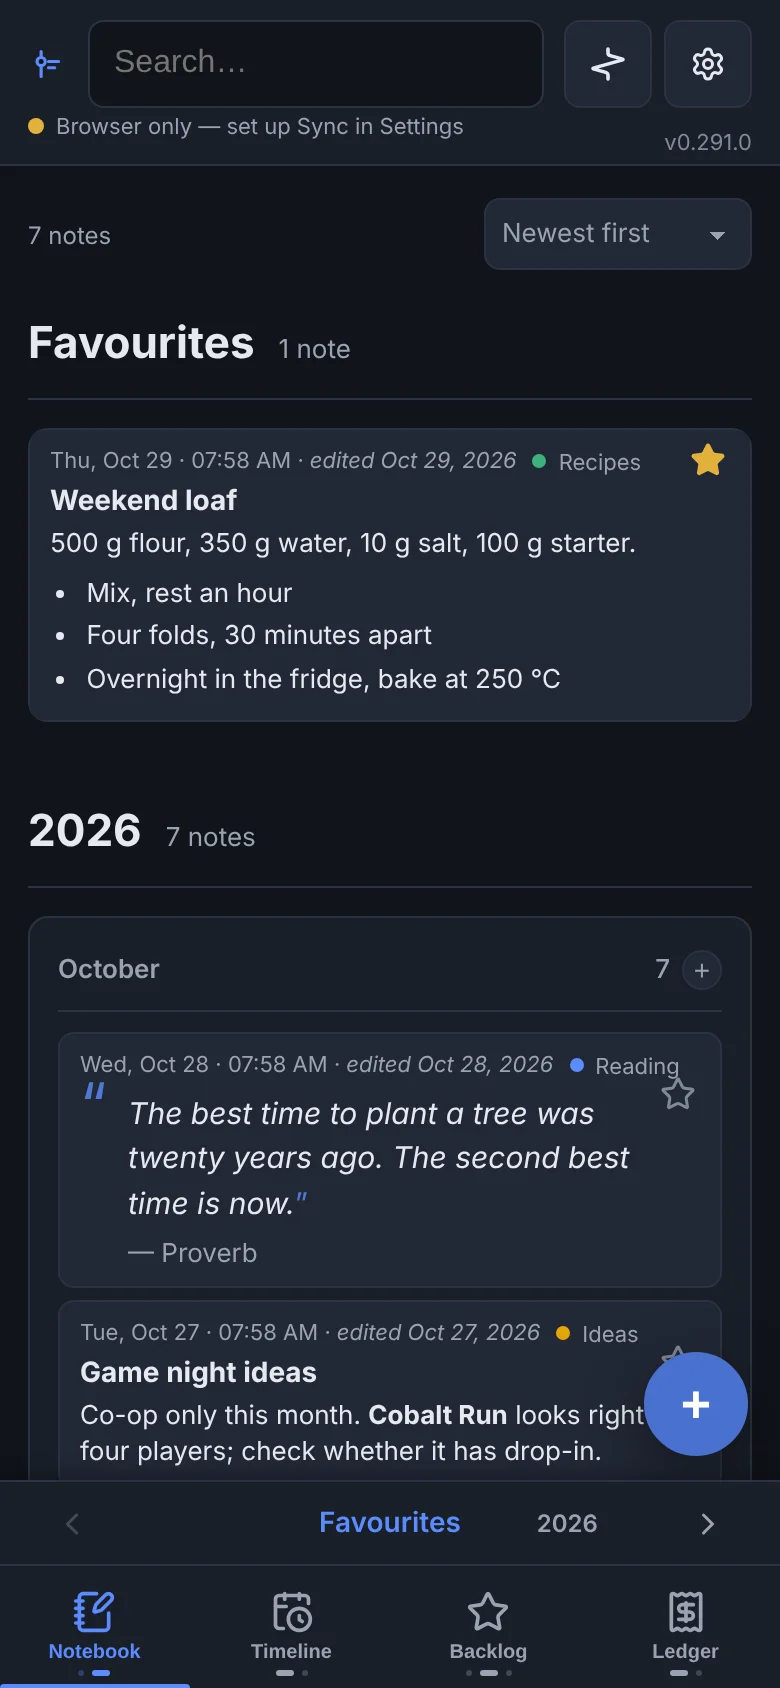
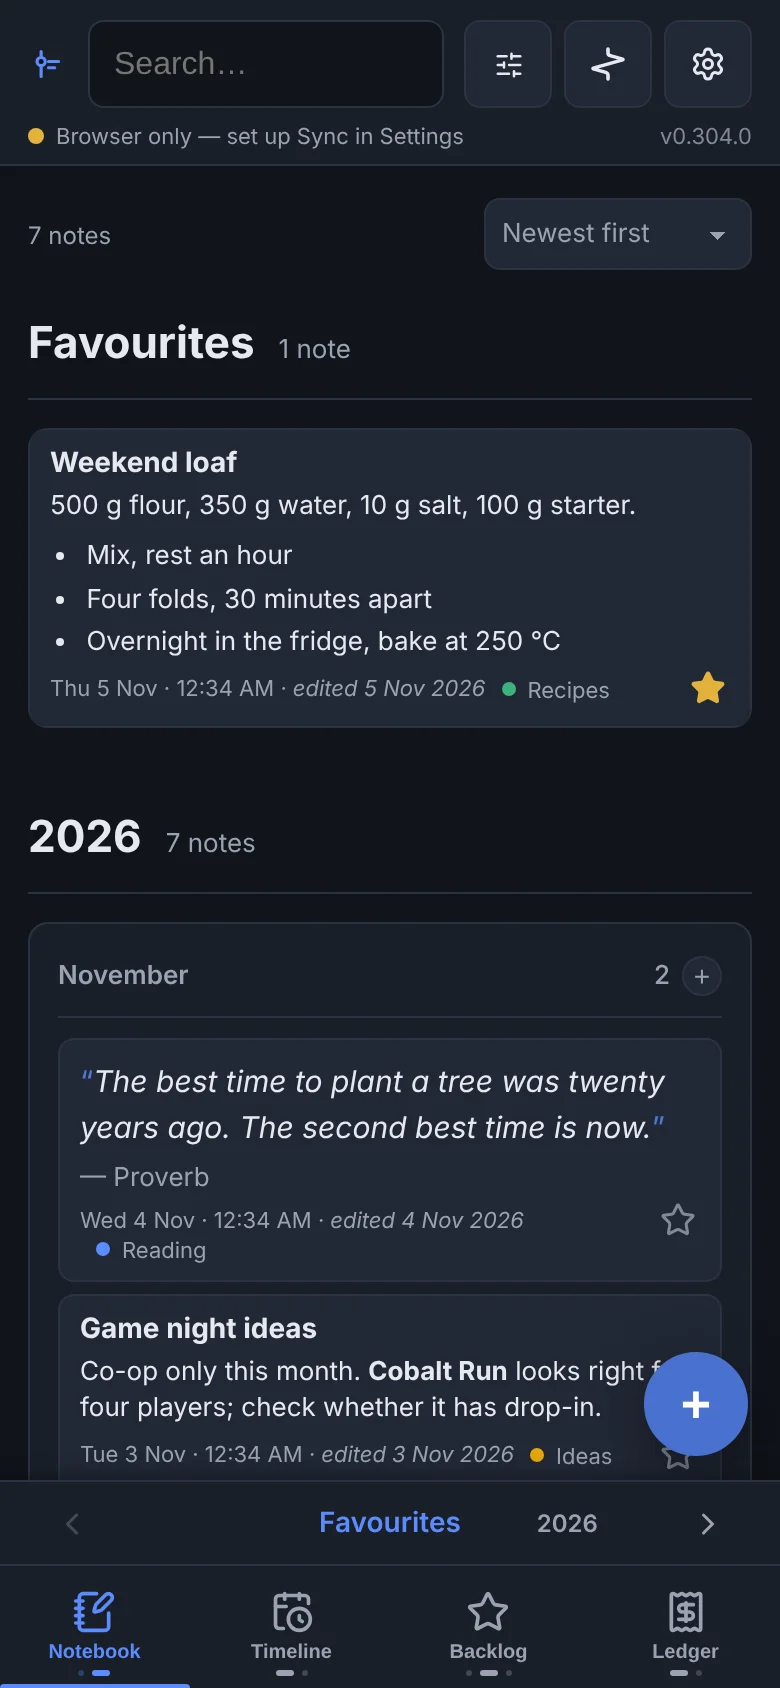
Notes on phones: full screen, category picker, Back closes, no keyboard on Edit, stamps at the foot (#44)
* Notes on phones: full screen in the app, category picker, Back closes, no keyboard on Edit, card stamps at the foot

- The native overlay's padding outranked .nv-overlay's padding: 0, so the
  full-screen note floated with the page above and below it and counted the
  safe areas twice.
- .nv-cat::after (the 44px reach) lay over the select and took the tap; a
  label tap only focuses a select. The reach is now the select's own padding.
- Escape, and so Android Back, closed neither the editor nor the reader.
- openNoteModal focused the text for existing notes, popping the keyboard on
  Edit; only a new note starts typing now.
- Cards: stamp row at the foot (flex, star at its end), quote marks inline,
  no presentation icon on board cards. View buttons left the note.

Claude-Session: https://claude.ai/code/session_01CFeKrkW8Tx3Gf3wdtTxLtT

* Notes: Add image in the ⋯ menu, checklist cards match the others, list headers don't stick

- Add image is the ⋯ menu's first item; a new note's ⋯ holds only that, and
  the foot shows only for a saved note's dates.
- .note-card.is-list had its own surface; it takes the card's now.
- The phone's sticky '.month-card h3' rule caught a checklist's header
  (an h3) and stuck it over the month name; excluded.
- The card stamp is flow-root with the star floated first, so a wrapped
  stamp keeps the star on its first line inside the card.

Claude-Session: https://claude.ai/code/session_01CFeKrkW8Tx3Gf3wdtTxLtT
[…]

diff --git a/src/styles.css b/src/styles.css
@@ -1241,7 +1241,8 @@ select:focus { outline: none; border-color: var(--accent); }
 .note-card:focus-visible { outline: 2px solid var(--accent); outline-offset: 2px; }
 /* After :hover, so a selected card stays marked while the pointer is over it. */
 .note-card.is-selected { border-color: var(--accent); background: var(--accent-soft); }
-.note-stamp { font-size: var(--fs-2xs); color: var(--text-dim); margin-bottom: 4px; }
+/* flow-root holds the floated star inside the card now the stamp is last. */
+.note-stamp { display: flow-root; font-size: var(--fs-2xs); color: var(--text-dim); margin-top: var(--space-6); }
 .note-edited { font-style: italic; }
 .note-text {
   margin: 0; font-size: var(--fs-sm); color: var(--text); line-height: 1.45;
@@ -3369,7 +3370,8 @@ html.native, html.native body { overscroll-behavior-y: none; }
   /* Timeline is a single column at this width, so the year/month you're
      scrolled into can stick under the topbar like a sticky list header. */
   html:not(.force-pc) .year-head { position: sticky; top: var(--sticky-top); z-index: 6; background: var(--bg); }
-  html:not(.force-pc) .month-card h3 {
+  /* A checklist card's own header is an h3 too; it isn't the month's. */
+  html:not(.force-pc) .month-card h3:not(.note-list-head) {
     position: sticky; background: var(--bg-elev);
     /* stacks below the sticky year-head, whose height varies per year (achievement chips can wrap) */
     top: calc(var(--sticky-top) + var(--year-head-h, 46px) - 1px); z-index: 4;
@@ -3476,7 +3478,7 @@ html.force-mobile .proj-group-add { width: 20px; height: 20px; font-size: var(--
 html.force-mobile .views { touch-action: none; }
 
 html.force-mobile .year-head { position: sticky; top: var(--sticky-top); z-index: 6; background: var(--bg); }
-html.force-mobile .month-card h3 {
+html.force-mobile .month-card h3:not(.note-list-head) {
   position: sticky; background: var(--bg-elev);
   top: calc(var(--sticky-top) + var(--year-head-h, 46px) - 1px); z-index: 4;
 }
@@ -4312,21 +4314,20 @@ html.force-mobile .view-options-overlay[hidden] > .modal { translate: 0 100%; }
 }
 .note-cat .dot { width: 7px; height: 7px; border-radius: 50%; display: inline-block; }
 
-/* A quote reads as one: bigger, italic, hung inside its own marks. */
+/* A quote reads as one: bigger, italic, inside its own marks. */
 .note-card .note-quote {
-  position: relative; padding: 2px 4px 0 24px; font-size: var(--fs-read); font-style: italic; line-height: 1.5;
+  padding: 2px 4px 0 0; font-size: var(--fs-read); font-style: italic; line-height: 1.5;
 }
-.note-card .note-quote::before {
-  content: "\201C"; position: absolute; left: 0; top: -6px;
-  font-size: var(--fs-3xl); line-height: 1; font-style: normal; color: var(--accent); opacity: .8;
-}
+/* The marks sit in the line, the same size as the words (Daniel, 2026-11-06:
+   a big hung opening mark read as offset from the text). */
+.note-card .note-quote::before { content: "\201C"; color: var(--accent); opacity: .8; font-style: normal; }
 .note-card .note-quote::after { content: "\201D"; color: var(--accent); opacity: .8; font-style: normal; }
-.note-author { margin: 6px 0 0 24px; font-size: var(--fs-sm); color: var(--text-dim); }
+.note-author { margin: 6px 0 0; font-size: var(--fs-sm); color: var(--text-dim); }
 
 /* A list is the To-do mode's panel (0.196.0): its header, the old rows,
    the done rule and the add line, on the panel's own surface. Only the
    header opens the note, so the rest of the card isn't a pointer. */
-.note-card.is-list { background: var(--surface-card); cursor: default; padding: 10px 12px 12px; }
+.note-card.is-list { cursor: default; padding: 10px 12px 12px; }
 .note-card.is-list:hover { border-color: var(--border-strong); }
 .note-list-head {
   margin: 0 0 4px; padding: 2px 0 10px; border-bottom: 1px solid var(--border);
@@ -4456,9 +4457,9 @@ html.force-mobile .view-options-overlay[hidden] > .modal { translate: 0 100%; }
 .note-image-del::after { content: ""; position: absolute; inset: -11px; }
 
 /* ---------- a note, read or written (0.304.0) ----------
-   One frame for both: the bar (close, Read / Edit, View, the rest), the
-   page in a reading column, and on the editor a foot with the image button
-   and the dates. Full screen on a phone. The category is a chip under the
+   One frame for both: the bar (close, Read / Edit, the ⋯ menu, Save), the
+   page in a reading column, and on a saved note's editor a foot with its
+   dates. Full screen on a phone. The category is a chip under the
    title and the dates sit at the foot: what a note is about comes first. */
 .nv-overlay > .modal.nv {
   width: 760px; height: min(86vh, 860px); max-height: none; padding: 0;
@@ -4470,7 +4471,7 @@ html.force-mobile .view-options-overlay[hidden] > .modal { translate: 0 100%; }
   display: flex; align-items: center; gap: var(--space-6); flex: 0 0 auto;
   padding: var(--space-10) var(--space-12); border-bottom: 1px solid var(--border);
 }
-.nv-bar .spacer, .nv-foot .spacer { flex: 1; }
+.nv-bar .spacer { flex: 1; }
 .nv-mode {
   display: inline-flex; padding: var(--space-2); gap: 2px; border-radius: var(--r-lg);
   background: var(--bg); border: 1px solid var(--border);
@@ -4510,10 +4511,16 @@ html.force-mobile .view-options-overlay[hidden] > .modal { translate: 0 100%; }
   font: inherit; padding: 0; margin: 0; width: auto; min-width: 0; min-height: 0; cursor: pointer;
 }
 #noteModal .nv-cat select:focus { outline: none; box-shadow: none; }
-/* 44px tall to press on a phone, without moving the text under it. */
-.nv-cat::after { content: ""; position: absolute; inset: -10px -4px; }
+/* 44px tall to press on a phone, without moving the text under it, and the
+   whole chip, dot included, opens the picker. The reach is the select's own
+   padding: a box laid over it would take the tap,
+   and tapping a label only focuses its select, it doesn't open it. */
+#noteModal .nv-cat select {
+  --nv-cat-lead: calc(var(--space-8) + 8px + var(--space-6));
+  position: relative; padding: 14px 24px 14px var(--nv-cat-lead) !important;
+  margin: -14px calc(-1 * var(--space-4)) -14px calc(-1 * var(--nv-cat-lead));
+}
 .nv-cat-static { cursor: default; padding-right: var(--space-10); }
-.nv-cat-static::after { content: none; }
 .nv-cat-static[hidden] { display: none; }
 #noteForm .note-kind-seg { margin: 0 0 var(--space-16); }
 #noteForm .note-kind-seg[hidden] { display: none; }
@@ -4550,11 +4557,11 @@ html.note-lines .nv-gutter { display: block; }
 .nv-hint[hidden] { display: none; }
 .nv-foot {
   display: flex; align-items: center; gap: var(--space-8); flex: 0 0 auto;
-  padding: var(--space-6) var(--space-12); border-top: 1px solid var(--border);
+  padding: var(--space-10) var(--space-12); border-top: 1px solid var(--border);
 }
-.nv-foot .btn-icon[hidden] { display: none; }
-#noteStampLine { margin: 0; color: var(--text-dim); font-size: var(--fs-xs); text-align: right; }
-/* The ⋯ menu: the kind, Make entry and Delete — things done to a note
+.nv-foot[hidden] { display: none; }
+#noteStampLine { margin: 0; color: var(--text-dim); font-size: var(--fs-xs); }
+/* The ⋯ menu: Add image, the kind, Make entry and Delete — things done to a note
    now and then, kept out of the way of writing it. */
 .nv-menu {
   position: absolute; top: calc(100% - 4px); right: 72px; z-index: 3; min-width: 200px; padding: var(--space-4);
@@ -4611,6 +4618,7 @@ html.note-text-large #noteReader .md { font-size: var(--fs-xl); }
   html.note-text-large .nv-editor { --nv-fs: var(--fs-xl); }
   .nv-gutter { width: 2em; }
   #noteForm #nText { min-height: 55vh; }
+  html.native .nv-overlay { padding: 0; }
   html.native .nv-overlay > .modal.nv { padding-top: var(--sat); padding-bottom: var(--sab); }
 }
 html.force-mobile .nv-overlay { padding: 0; align-items: stretch; }
@@ -4625,6 +4633,7 @@ html.force-mobile .nv-editor, html.note-text-small.force-mobile .nv-editor { --n
 html.note-text-large.force-mobile .nv-editor { --nv-fs: var(--fs-xl); }
 html.force-mobile .nv-gutter { width: 2em; }
 html.force-mobile #noteForm #nText { min-height: 55vh; }
+html.native.force-mobile .nv-overlay { padding: 0; }
 html.native.force-mobile .nv-overlay > .modal.nv { padding-top: var(--sat); padding-bottom: var(--sab); }
 @media (max-width: 720px) {
   .coll-grid { grid-template-columns: 1fr 1fr; gap: 8px; }

diff --git a/test/browser/notesheet.js b/test/browser/notesheet.js
@@ -103,7 +103,7 @@ async function run(b, width) {
   check("the dates sit in the foot" + at, await page.evaluate(() => !!document.querySelector(".nv-foot #noteStampLine:not([hidden])")));
   check("no line numbers until they're on" + at, await page.evaluate(() => getComputedStyle(document.querySelector("#nGutter")).display === "none"));
   await page.fill("#nText", "One\nTwo that is long enough to wrap on a phone screen, and then some more words after that\n\nFour");
-  await page.evaluate(() => window.LifeLogSettings.openViewOptions("notes", true));
+  await page.evaluate(() => window.LifeLogSettings.openViewOptions("notes"));
   await page.selectOption("#noteLineNumbers", "on");
   await page.click("#closeViewOptionsBtn");
   const nums = await page.evaluate(() => [...document.querySelectorAll("#nGutter > span")].map((s) => [s.textContent, s.getBoundingClientRect().height]));
@@ -117,7 +117,7 @@ async function run(b, width) {
   d = await saved();
   check("with the text kept" + at, /Four$/.test(d.notes.find((n) => n.title === "Idea").text));
   await page.click("#closeNoteReaderBtn");
-  await page.evaluate(() => window.LifeLogSettings.openViewOptions("notes", true));
+  await page.evaluate(() => window.LifeLogSettings.openViewOptions("notes"));
   await page.selectOption("#noteOpenIn", "edit");
   await page.click("#closeViewOptionsBtn");
   await page.evaluate(() => window.LifeLogNotes.openNote(window.LifeLogStorage.cachedCopy().notes.find((n) => n.title === "Idea")));
@@ -141,6 +141,56 @@ async function run(b, width) {
   }));
   await shot("quote");
   await page.click("#cancelNoteBtn");
+
+  // ---- 0.304.x phone fixes ----
+  await page.evaluate(() => window.LifeLogNotes.openNoteModal(null));
+  check("the whole category chip is the picker, not a label over it" + at, await page.evaluate(() => {
+    const c = document.querySelector("#noteModal .nv-cat").getBoundingClientRect();
+    return [c.left + 3, c.left + c.width / 2, c.right - 3].every((x) => document.elementFromPoint(x, c.top + c.height / 2).id === "nCategory");
+  }));
+  check("a note has no View button of its own; Notebook's View has the options" + at,
+    await page.evaluate(() => !document.querySelector("#noteModal .nv-bar [aria-label='View options'], #noteReader .nv-bar [aria-label='View options']")));
+  await page.keyboard.press("Escape");
+  check("Escape (and phone Back) shuts the editor" + at, await page.evaluate(() => document.querySelector("#noteModal").hidden));
+  await page.evaluate(() => window.LifeLogNotes.openNoteReader(window.LifeLogStorage.cachedCopy().notes.find((n) => n.title === "Idea").id));
+  await page.keyboard.press("Escape");
+  check("and the reader" + at, await page.evaluate(() => document.querySelector("#noteReader").hidden));
+  await page.evaluate(() => window.LifeLogNotes.openNoteReader(window.LifeLogStorage.cachedCopy().notes.find((n) => n.title === "Idea").id));
+  await page.click("#editNoteReaderBtn");
+  await page.waitForTimeout(50);
+  check("switching to Edit doesn't put the cursor in the text (no keyboard)" + at,
+    await page.evaluate(() => !document.querySelector("#noteModal").hidden && !["INPUT", "TEXTAREA"].includes(document.activeElement.tagName)));
+  await page.click("#cancelNoteBtn");
+
+  await page.evaluate(() => window.LifeLogNotes.openNoteModal(null));
+  await page.click("#noteMoreBtn");
+  check("a new note's ⋯ holds Add image, and no kind or Delete" + at, await page.evaluate(() => {
+    const shown = (s) => { const e = document.querySelector(s); return !!e && e.getClientRects().length > 0; };
+    return shown("#noteMoreMenu #nAddImageBtn") && !shown("#noteKindMenuLabel") && !shown("#deleteNoteBtn") && !shown("#noteFoot");
+  }));
+  await page.keyboard.press("Escape");
+  await page.click("#cancelNoteBtn");
+
+  if (width < 720) {
+    // In the phone app the sheet fills the screen to its edges and keeps
+    // only its own bar and foot clear of the status and gesture bars; the
+    // padding every other sheet gets on native would float it over the page.
+    const fit = await page.evaluate(() => {
+      const html = document.documentElement;
+      html.classList.add("native");
+      html.style.setProperty("--safe-area-inset-top", "40px");
+      html.style.setProperty("--safe-area-inset-bottom", "30px");
+      window.LifeLogNotes.openNoteModal(window.LifeLogStorage.cachedCopy().notes.find((n) => n.title === "Idea"));
+      const m = document.querySelector("#noteModal > .modal").getBoundingClientRect();
+      const bar = document.querySelector("#noteModal .nv-bar").getBoundingClientRect();
+      const foot = document.querySelector("#noteModal .nv-foot").getBoundingClientRect();
+      return { m: [m.top, m.bottom], bar: bar.top, foot: foot.bottom, h: innerHeight };
+    });
+    check("on native the note fills the screen, its bar and foot clear of the system bars" + at,
+      fit.m[0] === 0 && fit.m[1] === fit.h && fit.bar === 40 && fit.foot === fit.h - 30, fit);
+    await page.click("#cancelNoteBtn");
+    await page.evaluate(() => document.documentElement.classList.remove("native"));
+  }
 
   check("the page doesn't scroll sideways" + at, await page.evaluate(() => document.documentElement.scrollWidth <= innerWidth));
   check("no errors" + at, errs.length === 0, errs);

diff --git a/src/notes.js b/src/notes.js
@@ -396,9 +396,9 @@
       stamp.appendChild(cat);
     }
     // ★ keeps a note at the top, above the years (0.196.0) — a board too (0.208.0).
-    if (!state.bulk.active) stamp.appendChild(favButton(n));
+    // First in the line so it floats at the end of the first row, not under a wrapped one.
+    if (!state.bulk.active) stamp.prepend(favButton(n));
     if (isBoardItem(n)) return boardCard(card, n, stamp);
-    card.appendChild(stamp);
     // textContent, never innerHTML: a note is whatever you typed, and the
     // white-space CSS is what keeps your line breaks.
     const kind = kindOf(n);
@@ -416,6 +416,8 @@
       if (n.title) card.appendChild(el("h4", "note-title", n.title));
       if (n.text) card.appendChild(noteBody(n.text));
     }
+    // The words first, when and where at the foot, as in the note itself.
+    card.appendChild(stamp);
     card.tabIndex = 0;
     card.setAttribute("role", "button");
     return card;
@@ -432,14 +434,14 @@
     return fav;
   }
 
-  // A board in the feed: its stamp and category, its name, its picture.
+  // A board in the feed: its name, its picture, then its stamp and category.
   function boardCard(card, n, stamp) {
     card.classList.add("is-board");
-    card.appendChild(stamp);
-    card.appendChild(el("p", "note-text note-list-title")).appendChild(window.LifeLogIcons.labelled("presentation", n.text));
+    card.appendChild(el("p", "note-text note-list-title", n.text));
     const thumb = el("div", "board-thumb-inline");
     thumb.appendChild(window.LifeLogBoards.thumbnail(n.board));
     card.appendChild(thumb);
+    card.appendChild(stamp);
     card.tabIndex = 0;
     card.setAttribute("role", "button");
     return card;
@@ -1331,13 +1333,19 @@
     $("#nTextLabel").hidden = sheetKind === "list";
     $("#nQuoteFields").hidden = sheetKind !== "quote";
     $("#nImages").hidden = sheetKind !== "text";
-    $("#nAddImageBtn").hidden = sheetKind !== "text";
     $("#nListHint").hidden = sheetKind !== "list" || sheetItems.length < 2;
     $("#nTextLabelText").textContent = sheetKind === "quote" ? "Quote" : "Note";
     $("#nText").placeholder = sheetKind === "quote" ? "The words, as they were said" : "What happened, what you noticed…";
     $("#nText").rows = sheetKind === "quote" ? 4 : 8;
     const editing = editingNoteId && state.data.notes.find((x) => x.id === editingNoteId);
     $("#noteToEntryBtn").hidden = !editing || sheetKind !== "text";
+    // ⋯ holds Add image (a note's own), and for a saved note its kind,
+    // Make entry and Delete; a new checklist or quote has nothing in it.
+    const images = sheetKind === "text";
+    $("#nAddImageBtn").hidden = !images;
+    $("#noteImageRule").hidden = !images || !editing;
+    $("#noteKindMenuLabel").hidden = $("#noteMenuRule").hidden = !editing;
+    $("#noteMoreBtn").hidden = !editing && !images;
     // Reading is for what's written; a checklist is its own page.
     $("#noteModeSeg").hidden = !editing || sheetKind === "list";
     fitText();
@@ -1611,7 +1619,6 @@
     if (note) $("#noteKindMenuSlot").appendChild(seg);
     else $("#noteForm .nv-col").prepend(seg);
     seg.querySelector('[data-kind="board"]').hidden = !!note;
-    $("#noteMoreBtn").hidden = !note;
     $("#noteModalTitle").textContent = note ? "Edit note" : "New note";
     $("#nText").value = note && kindOf(note) !== "list" ? note.text : "";
     $("#nTitle").value = !note ? "" : kindOf(note) === "list" ? note.text : (note.title || "");
@@ -1623,6 +1630,7 @@
     fillCategorySelect(note ? note.category : ([...state.noteActiveCats].find(Boolean) || ""));
     $("#deleteNoteBtn").hidden = !note;
     const stamp = $("#noteStampLine");
+    $("#noteFoot").hidden = !note;
     if (note) {
       let line = "Written " + formatStamp(noteDate(note));
       if (note.editedAt) {
@@ -1640,7 +1648,10 @@
     $("#noteForm").scrollTop = 0;
     if ($("#noteModal").hidden) $("#noteModal").hidden = false;
     fitText();
-    (sheetKind === "list" ? (note ? $("#nNewItem") : $("#nTitle")) : $("#nText")).focus({ preventScroll: true });
+    // Only a new note starts typing. An existing one, opened to edit or
+    // switched to Edit from reading, waits for a tap, so the phone's
+    // keyboard doesn't cover what you were about to read.
+    if (!note) (sheetKind === "list" ? $("#nTitle") : $("#nText")).focus({ preventScroll: true });
   }
   function closeNoteModal() { closeNoteMenu(); $("#noteModal").hidden = true; }
 
@@ -1713,9 +1724,6 @@
       saveNote(() => { closeNoteMenu(); openNoteReader(id); swapSheets("#noteModal", "#noteReader"); });
     };
     $("#cancelNoteBtn").onclick = closeNoteModal;
-    const viewOptions = () => { closeNoteMenu(); window.LifeLogSettings.openViewOptions("notes", true); };
-    $("#noteViewBtn").onclick = viewOptions;
-    $("#noteReaderViewBtn").onclick = viewOptions;
     $("#noteMoreBtn").onclick = (ev) => { ev.stopPropagation(); toggleNoteMenu(); };
     $("#noteMoreMenu").addEventListener("click", (ev) => { if (ev.target.closest("button")) closeNoteMenu(); });
     $("#noteModal").addEventListener("pointerdown", (ev) => {

diff --git a/index.html b/index.html
@@ -340,10 +340,11 @@
         </div>
         <h2 id="noteModalTitle" class="sr-only">New note</h2>
         <span class="spacer"></span>
-        <button type="button" class="btn btn-icon" id="noteViewBtn" title="View options" aria-label="View options"><span data-ico="sliders-horizontal"></span></button>
         <button type="button" class="btn btn-icon" id="noteMoreBtn" title="More" aria-label="More" aria-haspopup="menu" aria-expanded="false"><span data-ico="ellipsis"></span></button>
         <button type="submit" form="noteForm" class="btn btn-primary">Save</button>
         <div class="nv-menu" id="noteMoreMenu" role="menu" hidden>
+          <button type="button" role="menuitem" id="nAddImageBtn"><span data-ico="image"></span> Add image</button>
+          <hr id="noteImageRule" />
           <p class="nv-menu-label" id="noteKindMenuLabel">Kind</p>
           <div id="noteKindMenuSlot"></div>
           <hr id="noteMenuRule" />
@@ -390,9 +391,7 @@
           <p class="nv-hint" id="nListHint" hidden>Drag the handle to move an item</p>
         </div>
       </form>
-      <div class="nv-foot">
-        <button type="button" class="btn btn-icon" id="nAddImageBtn" title="Add image" aria-label="Add image"><span data-ico="image"></span></button>
-        <span class="spacer"></span>
+      <div class="nv-foot" id="noteFoot">
         <p class="added-line" id="noteStampLine" hidden></p>
       </div>
     </div>
@@ -407,7 +406,6 @@
           <button type="button" id="editNoteReaderBtn"><span data-ico="pencil"></span><span class="nv-mode-label">Edit</span></button>
         </div>
         <span class="spacer"></span>
-        <button type="button" class="btn btn-icon" id="noteReaderViewBtn" title="View options" aria-label="View options"><span data-ico="sliders-horizontal"></span></button>
       </div>
       <div class="nv-scroll">
         <div class="nv-col">

diff --git a/src/settings.js b/src/settings.js
@@ -904,14 +904,10 @@
 
   // Opened from a search result for another tab, it goes to that tab first:
   // the options are for seeing their effect, which needs the list under them.
-  // `here`: opened over a note, which may be one from another tab's search,
-  // so the tab behind stays where it is.
-  function openViewOptions(view, here) {
+  function openViewOptions(view) {
     view = view || viewKey(state.view);
     if (!hasViewOptions(view)) return;
-    if (here) {
-      // nothing to switch to
-    } else if (view === "habits") {
+    if (view === "habits") {
       if (viewKey(state.view) !== "habits") {
         state.notesMode = "habits";
         if (state.view !== "notes" && switchToView) switchToView("notes"); else render();

diff --git a/src/app.js b/src/app.js
@@ -4811,6 +4811,9 @@
         Backlog.closePickModal(); Backlog.closeOutTodaySheet();
         Finance.closeFinanceModal(); Finance.closeRecurringModal(); Finance.closeChangePlanModal();
         Finance.closePauseModal(); Finance.cancelFinanceCatModal();
+        // A note, read or written, shuts the way its × does (phone Back too),
+        // unless a new category's sheet is up over it: that one goes first.
+        if ($("#noteCatModal").hidden) { Notes.closeNoteModal(); Notes.closeNoteReader(); }
         Habits.closeHabitModal(); Habits.closeAmountModal(); Notes.closeNoteCatModal();
         Travel.closeTripModal(); Travel.closePlaceModal(); Travel.closeImportModal(); Share.close();
         SettingsUI.closeSettings();

diff --git a/changes/fix-note-safe-area.md b/changes/fix-note-safe-area.md
@@ -1,0 +1,13 @@
+### Fixed
+- On a phone a note fills the screen to its edges again: the bar and the foot clear the status and gesture bars once, instead of the note floating with the page showing above and below it.
+- The category chip in a note's editor opens the picker wherever you tap it.
+- Back on the phone (and Escape) closes a note, whether you're reading or writing it.
+- Switching a note to Edit no longer opens the keyboard; tap where you want to type. A new note still starts typing.
+- A quote's opening mark sits in the line at the same size as its closing one.
+- A board's card no longer shows the boards icon by its name.
+- A checklist's card has the same colour as the other notes, and on a phone its header no longer sticks over the month's.
+
+### Changed
+- On Notebook's cards the date, category and star sit at the foot, under the note.
+- Add image moved into the note's ⋯ menu, and the foot only shows a saved note's dates, on the left.
+- The View options moved out of the note: Notebook's own View button has them (line numbers, text size, open a note in).
